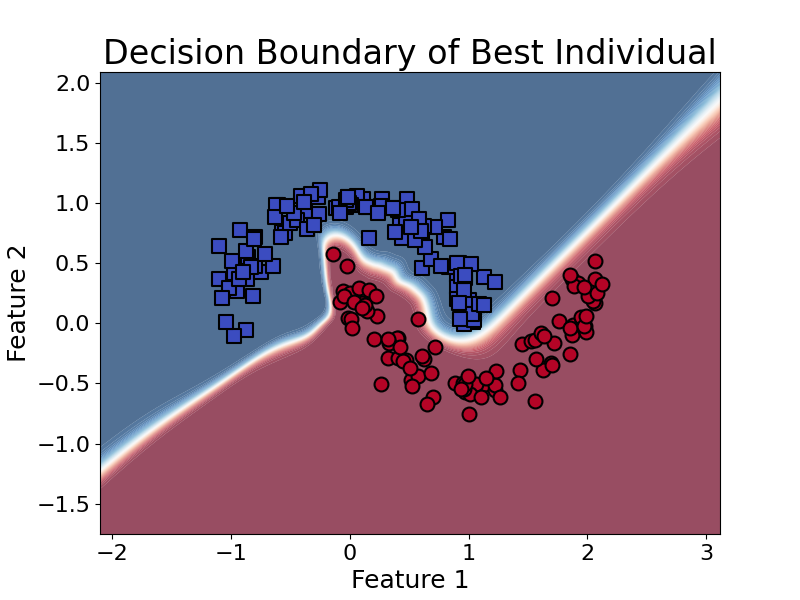
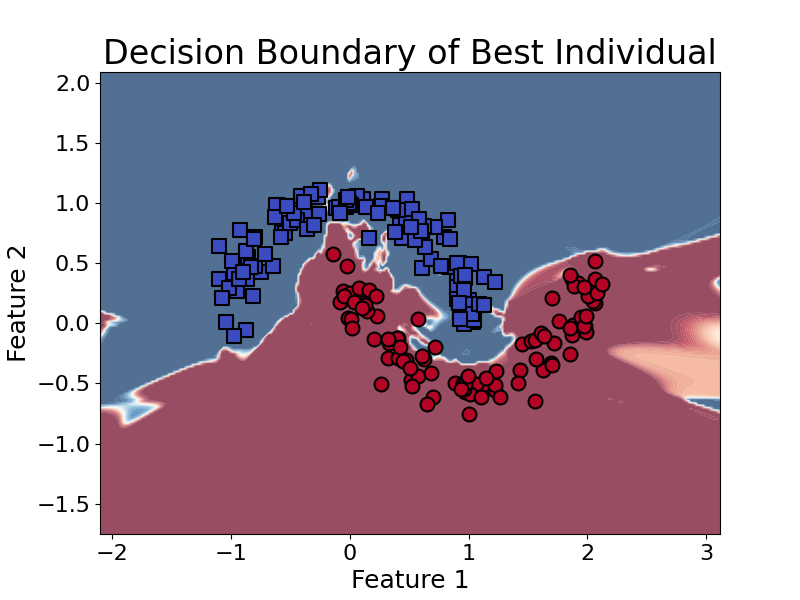
parallelized tournaments with PopMLP.py, wrote a simple script for MNIST parallel optimization in para.py

diff --git a/PopMLP.py b/PopMLP.py
@@ -1,0 +1,175 @@
+'''
+Here we are implementing a parallel-population microbial genetic algorithm. The idea is that we
+can more efficiently compute the fitness of the population by computing the fitness of
+each individual in parallel. This is achieved by stacking the population's weights into one tensor
+and then doing the forward pass on all individuals at the same time.
+
+First, we implement a torch module that performs the same function as MLP.py, but with the population's
+weights stacked into one tensor. 
+'''
+
+import torch
+import torch.nn as nn
+import torch.nn.functional as F
+import precisions as P
+
+class PopMLP(nn.Module):
+
+    def __init__(self, population_size, shapes, activation=F.relu, output_activation=None, precision='f32',
+                 bias_std=1, mutation_std=1, scale_std=1):
+        
+        super(PopMLP, self).__init__()
+        
+        self.population_size = population_size
+        self.shapes = shapes
+        self.activation = activation
+        self.output_activation = output_activation
+        self.precision = P.precisions[precision](mutation_std)
+        self.bias_precision = P.precisions['f32'](bias_std)
+        self.scale_precision = P.precisions['f32'](scale_std)
+        self.fitnesses = torch.zeros((self.population_size, 1))
+        self.weights = nn.ParameterList()
+        self.biases = nn.ParameterList()
+        self.scales = nn.ParameterList()
+        # Ensure all tensors are created on the correct device
+        device = torch.device('cuda' if torch.cuda.is_available() else 'cpu')
+        
+        for i in range(len(shapes)-1):
+            # Create weight matrix with specified precision
+            weight_tensor = self.precision.initializer((self.population_size, shapes[i + 1], shapes[i])).to(device=device)
+            self.weights.append(nn.Parameter(weight_tensor, requires_grad=False))
+            # Create bias vector with float32 precision
+            bias_tensor = torch.zeros((self.population_size, 1, shapes[i + 1]), device=device)
+            #bias_tensor = self.bias_precision.mutate(torch.zeros(shapes[i + 1], device=device))
+            self.biases.append(nn.Parameter(bias_tensor, requires_grad=False))
+            scale_tensor = torch.ones((self.population_size, 1, shapes[i + 1]), device=device)
+            self.scales.append(nn.Parameter(scale_tensor, requires_grad=False))
+        
+        self.to(device=device)
+
+    def forward(self, x):
+
+        device = next(self.parameters()).device
+        if x.device != device:
+            x = x.to(device)
+        for i in range(len(self.weights)):
+            x = x @ self.precision.cast_from(self.weights[i]).transpose(-1, -2) + self.biases[i]
+            if i < len(self.weights) - 1:
+                x = self.activation(x)
+        return x
+
+    '''
+    pop_data: takes input and output data in shapes (batch_size, input_size), and (batch_size, output_size)
+    and returns input data of shape (individuals, batch_size, input_size), and output data of shape (individuals, batch_size, output_size)
+    '''
+    def pop_data(self, x, y):
+
+        x = x.unsqueeze(0).expand(self.population_size, -1, -1)
+
+        y = y.unsqueeze(0).expand(self.population_size, -1, -1)
+
+        return x, y
+
+    def evaluate(self, x, y, f):
+        x_, y_ = self.pop_data(x, y)
+        return f(self.forward(x_), y_)
+    
+    def state_dict(self):
+        # Return weights and biases with appropriate casting
+        state_dict = {}
+        for i in range(len(self.weights)):
+            state_dict[f'weights.{i}'] = self.weights[i].clone()
+        
+        for i in range(len(self.biases)):
+            state_dict[f'biases.{i}'] = self.biases[i].clone()
+
+        for i in range(len(self.scales)):
+            state_dict[f'scales.{i}'] = self.scales[i].clone()
+        
+        return state_dict
+    
+    def load_state_dict(self, state_dict):
+        # Decide device BEFORE wiping parameters
+        device = self.weights[0].device if len(self.weights) > 0 else (
+            torch.device("cuda") if torch.cuda.is_available() else torch.device("cpu")
+        )
+
+        # Clear and rebuild parameters
+        self.weights = nn.ParameterList()
+        self.biases  = nn.ParameterList()
+        self.scales = nn.ParameterList()
+
+        for key, value in state_dict.items():
+            if key.startswith("weights"):
+                self.weights.append(nn.Parameter(value.to(device), requires_grad=False))
+            elif key.startswith("biases"):
+                self.biases.append(nn.Parameter(value.to(device), requires_grad=False))
+            elif key.startswith("scales"):
+                self.scales.append(nn.Parameter(value.to(device), requires_grad=False))
+    
+    '''
+    Carries out tournaments between individuals so that every individual participates in a tournament.
+    First fitness is evaluated in parallel, before tournament pairs are selected.
+    This is done by picking a random starting point, then iterating through the population picking
+    the tournament partner for the current individual. In picking a partner only an individual within
+    the current deme can be selected, and only if they are not already part of a tournament.
+
+    Then crossover and mutation is performed in parallel
+    '''
+    def tournaments(self, x, y, f, deme_size):
+
+        deme_size -= 1
+
+        self.fitnesses = self.evaluate(x, y, f)
+
+        start = torch.randint(0, self.population_size, (1,)).item()
+
+        selected = -torch.ones(self.population_size)
+
+        won = torch.ones(self.population_size).to(torch.bool)
+
+        for i in range(self.population_size):
+
+            shifted_indecies = torch.arange(start + i, start + i + self.population_size) % self.population_size
+                
+            if selected[shifted_indecies[0]] == -1:
+
+                deme = shifted_indecies[1:deme_size]
+
+                deme = deme[selected[deme] == -1]
+
+                select = deme[torch.randint(0, len(deme), (1,)).item()]
+
+                selected[shifted_indecies[0]] = select
+
+                selected[select] = shifted_indecies[0]
+
+                if self.fitnesses[shifted_indecies[0]] >= self.fitnesses[select]:
+
+                    won[select] = 0
+                
+                else:
+                    
+                    won[shifted_indecies[0]] = 0
+    
+        state = self.state_dict()
+
+        for k in state.keys():
+
+            mask = torch.rand(state[k].size(0)//2, state[k].size(1), state[k].size(2)) > 0.5
+
+            state[k][won.logical_not()] = torch.where(mask, state[k][won], state[k][won.logical_not()])
+
+            if 'weight' in k:
+
+                state[k][won.logical_not()] = self.precision.mutate(state[k][won.logical_not()])
+            
+            if 'bias' in k:
+
+                state[k][won.logical_not()] = self.bias_precision.mutate(state[k][won.logical_not()])
+            
+            if 'scale' in k:
+
+                state[k][won.logical_not()] = self.scale_precision.mutate(state[k][won.logical_not()])
+        
+        self.load_state_dict(state)

diff --git a/para.py b/para.py
@@ -1,0 +1,85 @@
+'''
+An implementation of the microbial genetic algorithm using PopMLP for mixed-precision genomes.
+This file concentrates on the MNIST dataset for image classification using parallel population approach.
+'''
+
+import torch
+from PopMLP import PopMLP
+from sklearn.datasets import fetch_openml
+from sklearn.model_selection import train_test_split
+import matplotlib.pyplot as plt
+import numpy as np
+import torch.nn.functional as F
+
+# Load MNIST dataset
+print("Loading MNIST dataset...")
+mnist = fetch_openml('mnist_784', version=1, as_frame=False)
+X, y = mnist.data, mnist.target
+
+# Convert labels to one-hot encoding
+y = y.astype(int)
+y_onehot = np.zeros((y.shape[0], 10))
+y_onehot[np.arange(y.shape[0]), y] = 1
+
+# Split into train and test sets
+X_train, X_test, y_train, y_test = train_test_split(X, y_onehot, test_size=1/7, random_state=42)
+
+# Convert to torch tensors
+x_train = torch.FloatTensor(X_train)
+y_train = torch.FloatTensor(y_train)
+x_test = torch.FloatTensor(X_test)
+y_test = torch.FloatTensor(y_test)
+
+print(f"Training data shape: {x_train.shape}")
+print(f"Test data shape: {x_test.shape}")
+
+# Check for GPU availability and move tensors to GPU if available
+device = torch.device("cuda" if torch.cuda.is_available() else "cpu")
+print(f"Using device: {device}")
+
+x_train = x_train.to(device)
+y_train = y_train.to(device)
+x_test = x_test.to(device)
+y_test = y_test.to(device)
+
+# Define network parameters for MNIST
+shapes = [784, 100, 10]
+activation = torch.tanh
+output_activation = lambda x: x
+precision = 'i4'
+bias_std = 0.5
+mutation_std = 1
+scale_std = 0.
+
+# Initialize MGA with PopMLP
+population_size = 10
+num_generations = 1000
+BATCH_SIZE = 1000
+
+# Create PopMLP instance for the population
+pop_mlp = PopMLP(population_size, shapes, activation, output_activation, precision, bias_std, mutation_std, scale_std)
+
+# Initialize best fitness history
+best_fitness_history = []
+best_tests = []
+
+def celoss(logits, targets):
+
+    logits_flat = logits.reshape(-1, logits.size(-1))  # (networks*batch_size, classes)
+    targets_flat = targets.reshape(-1, targets.size(-1))  # (networks*batch_size, classes)
+    
+    # Compute loss for all networks at once
+    loss_per_sample = F.cross_entropy(logits_flat, targets_flat, reduction='none')
+    
+    # Reshape back to (networks, batch_size) and compute mean per network
+    loss_per_sample = loss_per_sample.reshape(logits.size(0), logits.size(1))  # (networks, batch_size)
+    
+    # Return mean loss for each network
+    return -loss_per_sample.mean(dim=1)
+
+# Evolution loop
+for generation in range(num_generations):
+    batch_indices = torch.randperm(len(x_train))[:BATCH_SIZE]
+    pop_mlp.tournaments(x_train[batch_indices], y_train[batch_indices], celoss, population_size)
+    print(pop_mlp.fitnesses.mean())
+    

diff --git a/precisions.py b/precisions.py
@@ -54,6 +54,13 @@ class i8:
         mutated_clamped = torch.clamp(mutated, -128, 127)
         return mutated_clamped.to(torch.int8)
 
+    def initializer(self, shape):
+        # Sample from a Gaussian with std that covers the full range of int8
+        # int8 range is [-128, 127], so we want to sample across this range
+        # A std of ~40 should cover most of the range (68% within 1 std, 99.7% within 3 std)
+        # Using std=60 to ensure good coverage
+        return torch.round(torch.randn(shape, dtype=torch.float32) * 60).clamp(-128, 127).to(torch.int8)
+
 class i4:    
 
     def __init__(self, std=1):
@@ -78,6 +85,11 @@ class i4:
         mutated_clamped = torch.clamp(mutated, -8, 7)
         return mutated_clamped.to(torch.int8)
 
+    def initializer(self, shape):
+        # int4 range is [-8, 7], so we want to sample across this range
+        # Using std=3 to cover the range (std of ~3 covers ~99.7% of values within [-9, 9])
+        return torch.round(torch.randn(shape, dtype=torch.float32) * 3).clamp(-8, 7).to(torch.int8)
+
 class i2:
     def __init__(self, std=1):
         self.precision = 'i2'
@@ -101,6 +113,11 @@ class i2:
         mutated = torch.round(x + mutations)
         mutated_clamped = torch.clamp(mutated, -2, 1)
         return mutated_clamped.to(torch.int8)
+
+    def initializer(self, shape):
+        # int2 range is [-2, 1], so we want to sample across this range
+        # Using std=1.5 to cover the range (std of ~1.5 covers ~99.7% within [-4.5, 4.5])
+        return torch.round(torch.randn(shape, dtype=torch.float32) * 1.5).clamp(-2, 1).to(torch.int8)
 
 class binary:
     def __init__(self, std=0):

diff --git a/two_moons.py b/two_moons.py
@@ -27,15 +27,15 @@ y_test = torch.FloatTensor(y_test).unsqueeze(1)
 shapes = [2, 64, 64, 1]
 activation = torch.tanh
 output_activation = lambda x: x
-precision = 'i2'
-bias_std = 0.1
-mutation_std = 0.3
+precision = 'i4'
+bias_std = 0.5
+mutation_std = 1
 scale_std = 0.
 
 # Initialize MGA
-population_size = 10
-num_generations = 1000
-mga = MGA(population_size, num_generations, population_size)
+population_size = 5
+num_generations = 3000
+mga = MGA(population_size, num_generations, 2)
 
 # Initialize population
 mga.initialize_population(shapes, activation, output_activation, precision, bias_std, mutation_std, scale_std, x_train, y_train, torch.nn.BCEWithLogitsLoss())
@@ -43,10 +43,10 @@ mga.initialize_population(shapes, activation, output_activation, precision, bias
 # Evolution loop
 best_fitness_history = []
 best_individuals = []
+best_fitness = float('-inf')
 
 for generation in range(num_generations):
     print(f"Generation {generation}")
-    best_fitness = float('-inf')
     for i in range(population_size):
         # Tournament selection and evolution
         fitness, t = mga.tournament(x_train, y_train, torch.nn.BCEWithLogitsLoss())

diff --git a/mga.py b/mga.py
@@ -22,10 +22,9 @@ class MGA:
         device = torch.device('cuda' if torch.cuda.is_available() else 'cpu')
         x, y = x.to(device), y.to(device)
 
-        for _ in range(self.population_size):
-            model = MLP(shapes, activation, output_activation, precision, bias_std, mutation_std, scale_std)
-            model = model.to(device)  # Move model to GPU
-            self.population.append(model)
+        for _ in range(self.population_size): 
+            # Move model to GPU
+            self.population.append(MLP(shapes, activation, output_activation, precision, bias_std, mutation_std, scale_std).to(device=device))
             self.population[-1].evaluate(x, y, f)
 
     def tournament(self, x, y, f, test=False):

diff --git a/MNIST.py b/MNIST.py
@@ -46,16 +46,16 @@ y_test = y_test.to(device)
 shapes = [784, 100, 10]
 activation = torch.tanh
 output_activation = lambda x: x
-precision = 'i2'
-bias_std = 0.1
+precision = 'i4'
+bias_std = 0.5
 mutation_std = 1
-scale_std = 0.1
+scale_std = 0.
 
 # Initialize MGA
-population_size = 100
+population_size = 10
 num_generations = 1000
 BATCH_SIZE = 1000
-mga = MGA(population_size, num_generations, population_size)
+mga = MGA(population_size, num_generations, 2)
 
 # Initialize population
 mga.initialize_population(shapes, activation, output_activation, precision, bias_std, mutation_std, scale_std, x_train, y_train, torch.nn.CrossEntropyLoss())

diff --git a/MLP.py b/MLP.py
@@ -39,7 +39,7 @@ class MLP(nn.Module):
 
         for i in range(len(shapes)-1):
             # Create weight matrix with specified precision
-            weight_tensor = self.precision.mutate(torch.zeros((shapes[i + 1], shapes[i]), device=device))
+            weight_tensor = self.precision.initializer((shapes[i + 1], shapes[i])).to(device=device)
             self.weights.append(nn.Parameter(weight_tensor, requires_grad=False))
             # Create bias vector with float32 precision
             bias_tensor = torch.zeros(shapes[i + 1], device=device)
